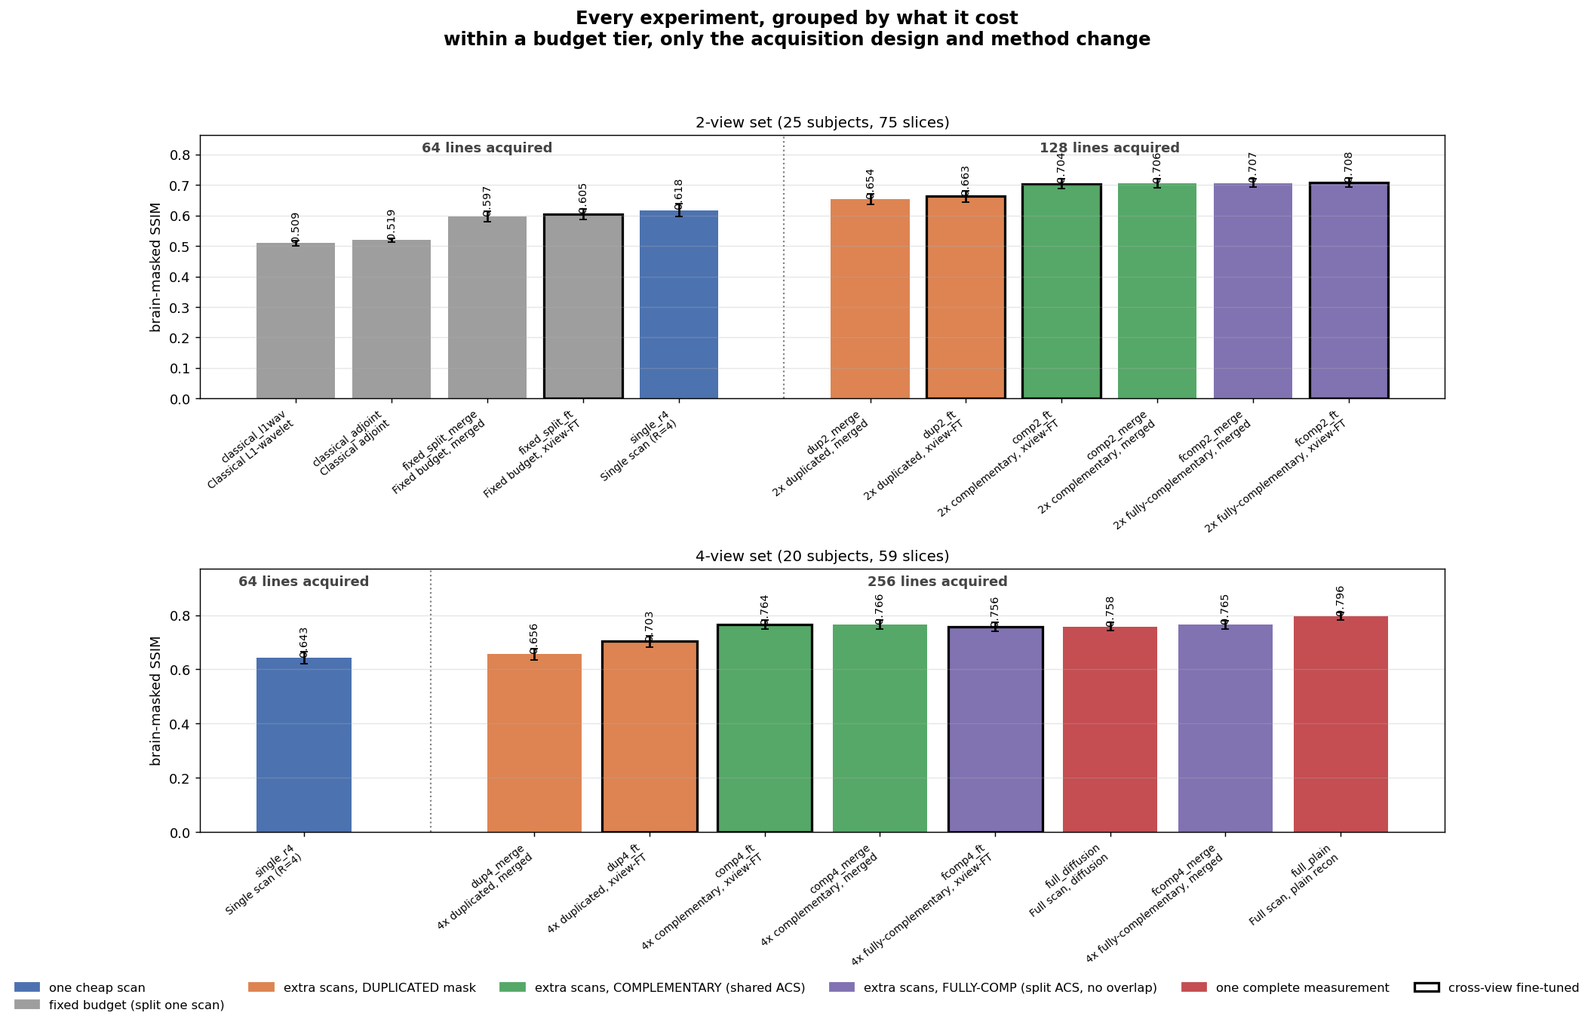
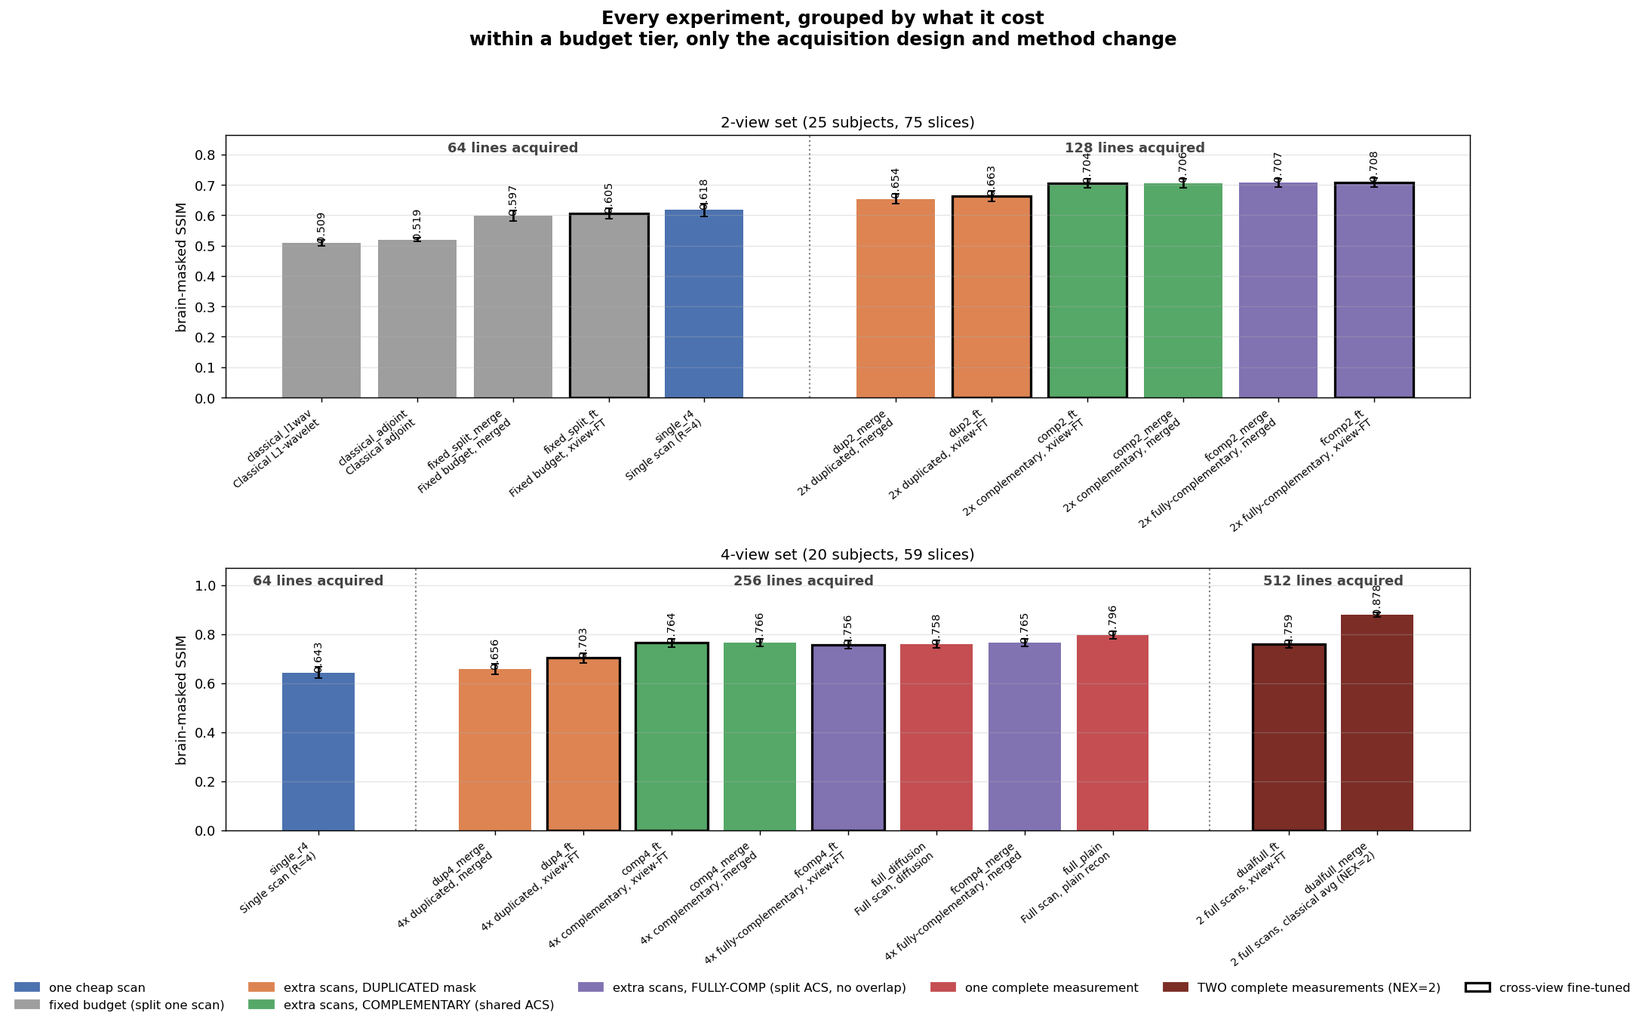
Add two-full-views (NEX=2) experiments: dualfull_merge + dualfull_ft
The realistic low-field test: two COMPLETE k-space acquisitions of the same slice
(512 lines), combined two ways.
- dualfull_merge: classical noise-weighted average. For equal sigma this is exactly
  (y0+y1)/2 at sigma/sqrt2 -- the standard NEX=2 average -- with a plain adjoint
  recon (no diffusion). Added to run_classical_recon.py.
- dualfull_ft: the learned cross-view fine-tuned joint reconstruction over the two
  full views. Added via the diffusion solver.
118 reconstructions on the 4-view eval set (views 0+1), 0 errors.

The study's sharpest result:
- dualfull_merge = 0.878 SSIM / 0.099 NRMSE -- the BEST method anywhere here, +0.081
  SSIM over a single full scan (full_plain) on 100% of subjects. A second full
  acquisition (pure sqrt2 SNR) beats every reconstruction trick we tested.
- dualfull_ft = 0.759 -- LOSES to the classical average by 0.119 SSIM (0% of
  subjects win) and gains ~0 over single-full diffusion (+0.001). The learned
  pipeline extracts almost none of the second acquisition's SNR.
- Confirms decisively: the diffusion prior is only valuable when undersampled; at
  full coverage, classical multi-average is the true low-field ceiling.

dual_full mask condition (2 all-ones views) added -- consumes no rng, so all
existing conditions stay bit-identical. Solver, experiments.py, config, report
(quad table + comparison subsection + negative findings), notes (§4.4), overview
figure and montage all updated. Also fixed a stale MF__ output filename in
[…]

diff --git a/analysis/build_mvp_report.py b/analysis/build_mvp_report.py
@@ -252,7 +252,8 @@ def main():
         L.append("This set answers the budget question directly: **with the same 256 lines a full "
                  "scan costs, can four cheap R=4 scans surpass one complete measurement?**\n")
         results_table(quad_t, ["single_r4", "dup4_merge", "dup4_ft", "comp4_merge", "comp4_ft",
-                               "fcomp4_merge", "fcomp4_ft", "full_diffusion", "full_plain"], L)
+                               "fcomp4_merge", "fcomp4_ft", "full_diffusion", "full_plain",
+                               "dualfull_merge", "dualfull_ft"], L)
         L.append("**Answer: yes against the same reconstruction method, no against the best one.** "
                  "`comp4_ft` (4x complementary, 81% coverage) beats `full_diffusion` (the *same* "
                  "diffusion reconstruction given a complete measurement) on both metrics: +0.007 SSIM "
@@ -305,6 +306,29 @@ def main():
         L.append(cmp_line(quad_t, "fcomp4_ft", "full_diffusion", "4x disjoint cheap scans vs 1 full scan (both diffusion)"))
         L.append(cmp_line(quad_t, "fcomp4_merge", "full_plain", "4x disjoint cheap scans vs 1 full scan (both plain/merge)"))
     L.append("")
+    if quad_t is not None and quad_t.has("dualfull_merge"):
+        L.append("### Two full acquisitions (low-field NEX=2): the true reconstruction ceiling\n")
+        L.append("Two *complete* k-space acquisitions of the same slice (512 lines), the realistic "
+                 "low-field multi-average scenario. `dualfull_merge` is the classical noise-weighted "
+                 "average (= (y0+y1)/2 at σ/√2, plain recon); `dualfull_ft` is the learned cross-view "
+                 "fine-tuned joint reconstruction over both full views.\n")
+        L.append(cmp_line(quad_t, "dualfull_merge", "full_plain", "NEX=2 classical average vs NEX=1 (both plain)"))
+        L.append("  Isolates the pure √2 SNR benefit of a second full acquisition under identical "
+                 "(classical) reconstruction — the honest low-field quality ceiling.")
+        L.append(cmp_line(quad_t, "dualfull_ft", "dualfull_merge", "learned xview-FT vs classical average, same 2 full views"))
+        L.append(cmp_line(quad_t, "dualfull_ft", "full_plain", "learned on 2 full views vs classical on 1 full view"))
+        L.append("")
+        L.append("**This is the study's sharpest result.** `dualfull_merge` (classical NEX=2 average) "
+                 "scores **0.878 SSIM / 0.099 NRMSE — the best of any method here by a wide margin**, "
+                 "+0.081 over a single full scan on 100% of subjects: at low field, a second full "
+                 "acquisition is worth far more than any reconstruction cleverness. And the learned "
+                 "method **fails this test decisively** — `dualfull_ft` (0.759) *loses to the classical "
+                 "average by 0.119 SSIM* and gains essentially nothing over `full_diffusion` (+0.001), "
+                 "i.e. it extracts almost no value from the second full acquisition. Once coverage is "
+                 "complete, the diffusion prior is not just unhelpful but a large net negative vs "
+                 "plain averaging. The learned pipeline earns its keep **only in the undersampled "
+                 "regime**; the honest low-field reconstruction ceiling is classical multi-average.")
+        L.append("")
     L.append("### Cross-view fine-tuning (the contribution) vs the merge baseline\n")
     L.append(cmp_line(main_t, "fixed_split_ft", "fixed_split_merge", "Cross-view FT, 19% coverage"))
     L.append(cmp_line(main_t, "dup2_ft", "dup2_merge", "Cross-view FT, 25% coverage"))
@@ -382,6 +406,13 @@ def main():
              "views `comp4` (81%, √4 centre averaging) **beats** `fcomp4` (100%, no averaging) by "
              "+0.008 SSIM despite covering less k-space. Low-frequency SNR is worth more than the "
              "last columns of coverage.")
+    L.append("- **Classical multi-average is the true low-field ceiling; the learned method loses "
+             "badly to it.** Two full acquisitions averaged (`dualfull_merge`, NEX=2) score 0.878 "
+             "SSIM — the best in the study, +0.081 over one full scan. The learned reconstruction on "
+             "the same two full views (`dualfull_ft`, 0.759) trails it by **0.119 SSIM** and gains "
+             "≈0 over single-full diffusion. With complete coverage, the diffusion prior is a large "
+             "net negative vs plain averaging; the learned pipeline is only valuable when "
+             "undersampled.")
     L.append("- **Four disjoint cheap scans reach a full scan's coverage but not its quality.** "
              "`fcomp4` assembles a complete k-space from 4 disjoint R=4 scans (same coverage and "
              "same per-line single-rep noise as `full_plain`), yet trails it by -0.031 SSIM / "

diff --git a/analysis/run_classical_recon.py b/analysis/run_classical_recon.py
@@ -102,10 +102,44 @@ def main():
         mv_op, y_views, _ = build_condition_operator(sample, masks_bundle, "merge_fixed", device, 1e-8)
 
         for mname in methods:
+            if mname == "dualfull_merge":
+                # Classical NEX=2: noise-weighted average of TWO full-k-space
+                # acquisitions of the same slice. For equal sigma this is exactly
+                # (y0+y1)/2 with effective noise sigma/sqrt2; plain adjoint recon
+                # (no diffusion) -- the true low-field SNR ceiling.
+                out_name = f"dualfull_merge__{meta['subject_id']}_sl{meta['slice_id']:02d}_seed0.pt"
+                out_path = os.path.join(args.output_dir, out_name)
+                if os.path.exists(out_path):
+                    continue
+                t0 = time.time()
+                cond = masks_bundle["conditions"]["dual_full"]          # [2,1,H,W] ones
+                ksp2 = sample["ksp_views"][:2]                          # [2,C,H,W] natural
+                mps0 = sample["s_maps_views"][0].numpy()               # [C,H,W] shared
+                noise2 = sample["noise_std"][:2]
+                merged = noise_weighted_merge(cond * ksp2, cond, noise2)
+                recon = adjoint_recon(merged["ksp"][0].numpy(), mps0)  # [H,W]
+                runtime = time.time() - t0
+                op_d, y_d, _ = build_condition_operator(sample, masks_bundle, "dual_full",
+                                                        device, 1e-8)
+                metrics = compute_all_metrics(recon.astype(np.complex64), sample, op_d, y_d,
+                                              device, ref_np)
+                torch.save({
+                    "method": "dualfull_merge", "condition": "dual_full", "checkpoint": None,
+                    "reconstruction": recon.astype(np.complex64), "reference": ref_np,
+                    "subject_id": meta["subject_id"], "slice_id": meta["slice_id"], "seed": 0,
+                    "num_steps": 0, "l_ss": None, "likelihood_type": None, "lambda": None,
+                    "runtime_seconds": runtime, "num_net_evals": 0, "metrics": metrics,
+                    "normalization_scale": meta.get("normalization_scale"),
+                    "mask_path": masks_path,
+                }, out_path)
+                n += 1
+                print(f"[dualfull_merge] {meta['subject_id']} sl{meta['slice_id']} "
+                      f"ssim={metrics.get('ssim', float('nan')):.3f}", flush=True)
+                continue
             if mname == "full_plain":
                 # Plain reconstruction of ONE complete k-space measurement (R=1,
                 # single repetition) -- the "single full scan" comparison target.
-                out_name = f"MF__{meta['subject_id']}_sl{meta['slice_id']:02d}_seed0.pt"
+                out_name = f"full_plain__{meta['subject_id']}_sl{meta['slice_id']:02d}_seed0.pt"
                 out_path = os.path.join(args.output_dir, out_name)
                 if os.path.exists(out_path):
                     continue

diff --git a/analysis/experiments.py b/analysis/experiments.py
@@ -65,6 +65,9 @@ EXPERIMENTS = {
     # ---- one complete measurement (the ceiling) --------------------------
     "full_diffusion":    Exp("Full scan, diffusion",     "original",  "single", "single_full",      1, 256, 256, 1.000, "full",  "quad"),
     "full_plain":        Exp("Full scan, plain recon",   "none",      "plain",  "single_full",      1, 256, 256, 1.000, "full",  "quad"),
+    # ---- TWO complete measurements of the same slice (low-field NEX=2) ----
+    "dualfull_merge":    Exp("2 full scans, classical avg (NEX=2)", "none",      "plain", "dual_full", 2, 512, 256, 1.000, "dualfull", "quad"),
+    "dualfull_ft":       Exp("2 full scans, xview-FT",              "finetuned", "ft",    "dual_full", 2, 512, 256, 1.000, "dualfull", "quad"),
 }
 
 # Old M#/MF id -> current slug (for migrating result files and reading old notes).
@@ -86,7 +89,8 @@ MAIN_ORDER = ["classical_adjoint", "classical_l1wav", "single_r4",
               "fcomp2_merge", "fcomp2_ft"]
 # Display order for the 4-view set: worst -> best.
 QUAD_ORDER = ["single_r4", "dup4_merge", "dup4_ft", "comp4_merge", "comp4_ft",
-              "fcomp4_merge", "fcomp4_ft", "full_diffusion", "full_plain"]
+              "fcomp4_merge", "fcomp4_ft", "full_diffusion", "full_plain",
+              "dualfull_merge", "dualfull_ft"]
 
 METHOD_ORDER = MAIN_ORDER  # back-compat for existing figure scripts
 METHOD_LABELS = {k: v.label for k, v in EXPERIMENTS.items()}
@@ -102,13 +106,14 @@ DESIGN_COLORS = {
     "comp":  "#55a868",   # complementary masks (shared ACS)
     "fcomp": "#8172b2",   # fully-complementary masks (split ACS, no overlap)
     "full":  "#c44e52",   # one complete measurement
+    "dualfull": "#7b2d26",  # two complete measurements (NEX=2)
 }
 
 
 def design_of(m):
     """Coarse acquisition-design tag used for colouring."""
     e = EXPERIMENTS[m]
-    if e.budget in ("full", "1x", "fixed"):
+    if e.budget in ("full", "1x", "fixed", "dualfull"):
         return e.budget
     if e.condition.endswith("_fullcomp"):
         return "fcomp"

diff --git a/analysis/plot_experiment_overview.py b/analysis/plot_experiment_overview.py
@@ -34,6 +34,7 @@ DESIGN_LABEL = {
     "comp": "extra scans, COMPLEMENTARY (shared ACS)",
     "fcomp": "extra scans, FULLY-COMP (split ACS, no overlap)",
     "full": "one complete measurement",
+    "dualfull": "TWO complete measurements (NEX=2)",
 }
 
 
@@ -113,7 +114,7 @@ def fig_overview(main, quad, out):
                color="#c44e52", fontsize=9, va="top")
 
     handles = [plt.Line2D([], [], marker="o", ls="", color=DESIGN_COLORS[k], ms=11,
-                          label=DESIGN_LABEL[k]) for k in ["1x", "fixed", "dup", "comp", "fcomp", "full"]]
+                          label=DESIGN_LABEL[k]) for k in ["1x", "fixed", "dup", "comp", "fcomp", "full", "dualfull"]]
     handles += [plt.Line2D([], [], marker=MARKERS[k], ls="", color="gray", ms=11,
                            label=f"{k}") for k in ["single", "merge", "ft", "plain"]]
     handles += [plt.Line2D([], [], marker="o", ls="", mfc="white", mec="black", mew=2, ms=11,
@@ -222,7 +223,7 @@ def fig_budget(main, quad, out):
         ax.set_title(title, fontsize=11)
         ax.grid(axis="y", alpha=0.3)
     handles = [plt.Rectangle((0, 0), 1, 1, color=DESIGN_COLORS[k], label=DESIGN_LABEL[k])
-               for k in ["1x", "fixed", "dup", "comp", "fcomp", "full"]]
+               for k in ["1x", "fixed", "dup", "comp", "fcomp", "full", "dualfull"]]
     handles += [plt.Rectangle((0, 0), 1, 1, fc="white", ec="black", lw=1.8,
                               label="cross-view fine-tuned")]
     # figure-level legend: bars reach y=0 so there is no free space inside an axes

diff --git a/tools/generate_mvp_masks.py b/tools/generate_mvp_masks.py
@@ -85,6 +85,12 @@ def build_conditions(H, W, cfg, rng):
     quad = np.stack([cols_to_mask(r4_cols, H, W)] * 4, axis=0)               # [4,1,H,W]
     # one complete k-space measurement (R=1), the comparison target
     full = np.stack([np.ones((1, H, W), dtype=np.float32)], axis=0)          # [1,1,H,W]
+    # TWO complete measurements of the same slice (realistic low-field NEX=2):
+    # both views fully sampled -> merge == classical average (sigma/sqrt2), or joint
+    # xview-FT. Deterministic (all-ones), consumes no rng, so existing conditions
+    # stay bit-identical.
+    dual_full = np.stack([np.ones((1, H, W), dtype=np.float32),
+                          np.ones((1, H, W), dtype=np.float32)], axis=0)     # [2,1,H,W]
     acs_mask = cols_to_mask(acs, H, W)
 
     # --- COMPLEMENTARY extra-repetition designs -------------------------------
@@ -164,6 +170,7 @@ def build_conditions(H, W, cfg, rng):
         "joint_quad_comp": torch.from_numpy(quad_comp),
         "joint_extra_fullcomp": torch.from_numpy(extra_fullcomp),
         "joint_quad_fullcomp": torch.from_numpy(quad_fullcomp),
+        "dual_full": torch.from_numpy(dual_full),
     }
     return conditions, torch.from_numpy(acs_mask), counts
 

diff --git a/analysis/plot_reconstructions.py b/analysis/plot_reconstructions.py
@@ -20,7 +20,8 @@ COLUMN_METHODS = ["classical_l1wav", "single_r4", "fixed_split_merge", "fixed_sp
                   "dup2_merge", "dup2_ft", "comp2_merge", "comp2_ft",
                   "fcomp2_merge", "fcomp2_ft"]
 QUAD_METHODS = ["single_r4", "dup4_merge", "dup4_ft", "comp4_merge", "comp4_ft",
-                "fcomp4_merge", "fcomp4_ft", "full_diffusion", "full_plain"]
+                "fcomp4_merge", "fcomp4_ft", "full_diffusion", "full_plain",
+                "dualfull_merge", "dualfull_ft"]
 
 
 def _input_snr(case_methods):

diff --git a/solve_inverse_mv_adps.py b/solve_inverse_mv_adps.py
@@ -107,6 +107,8 @@ _CONDITION_COVERAGE = {
     "joint_extra_fullcomp": 0.50, "merge_extra_fullcomp": 0.50,
     "joint_quad_fullcomp": 1.0, "merge_quad_fullcomp": 1.0,
     "single_full": 1.0,
+    # two complete measurements of the same slice (NEX=2), 100% coverage each
+    "dual_full": 1.0,
 }
 
 _MERGE_CONDITIONS = ("merge_fixed", "merge_extra", "merge_quad",

diff --git a/reports/mvp_summary.md b/reports/mvp_summary.md
@@ -89,6 +89,8 @@ This set answers the budget question directly: **with the same 256 lines a full 
 | `fcomp4_ft` | 4x fully-complementary, xview-FT | 4 | 256 | 256 | 100% | 0.7559 [0.7408, 0.7735] | 0.1406 [0.1334, 0.1484] | n/a |
 | `full_diffusion` | Full scan, diffusion | 1 | 256 | 256 | 100% | 0.7577 [0.7436, 0.7733] | 0.1346 [0.1303, 0.1396] | n/a |
 | `full_plain` | Full scan, plain recon | 1 | 256 | 256 | 100% | 0.7964 [0.7832, 0.8118] | 0.1198 [0.1165, 0.1240] | n/a |
+| `dualfull_merge` | 2 full scans, classical avg (NEX=2) | 2 | 512 | 256 | 100% | 0.8778 [0.8689, 0.8870] | 0.0986 [0.0936, 0.1034] | n/a |
+| `dualfull_ft` | 2 full scans, xview-FT | 2 | 512 | 256 | 100% | 0.7586 [0.7439, 0.7748] | 0.1425 [0.1361, 0.1496] | n/a |
 
 **Answer: yes against the same reconstruction method, no against the best one.** `comp4_ft` (4x complementary, 81% coverage) beats `full_diffusion` (the *same* diffusion reconstruction given a complete measurement) on both metrics: +0.007 SSIM (65% of subjects) and -0.014 NRMSE (95%). Four cheap complementary scans genuinely substitute for one full scan. But both lose on SSIM to `full_plain`, a plain linear recon of the full scan (`full_diffusion` - `full_plain` = -0.039, plain wins 90%): **the diffusion prior hurts on well-sampled data**.
 
@@ -118,6 +120,17 @@ _Note: the redundant "joint likelihood, original prior" methods (old M4/M8/M10/M
   At 4 views `fcomp4` reaches **full coverage** — a complete k-space assembled from 4 disjoint cheap scans. The two comparisons below ask whether that equals one full scan (same coverage, same per-line single-rep noise, but 4 independent acquisitions stitched vs 1 monolithic):
 - **4x disjoint cheap scans vs 1 full scan (both diffusion)** (fcomp4_ft - full_diffusion): **-0.0018** SSIM [-0.0056, +0.0022], fcomp4_ft wins on 35% of 20 subjects.
 - **4x disjoint cheap scans vs 1 full scan (both plain/merge)** (fcomp4_merge - full_plain): **-0.0314** SSIM [-0.0428, -0.0181], fcomp4_merge wins on 10% of 20 subjects.
+
+### Two full acquisitions (low-field NEX=2): the true reconstruction ceiling
+
+Two *complete* k-space acquisitions of the same slice (512 lines), the realistic low-field multi-average scenario. `dualfull_merge` is the classical noise-weighted average (= (y0+y1)/2 at σ/√2, plain recon); `dualfull_ft` is the learned cross-view fine-tuned joint reconstruction over both full views.
+
+- **NEX=2 classical average vs NEX=1 (both plain)** (dualfull_merge - full_plain): **+0.0814** SSIM [+0.0722, +0.0899], dualfull_merge wins on 100% of 20 subjects.
+  Isolates the pure √2 SNR benefit of a second full acquisition under identical (classical) reconstruction — the honest low-field quality ceiling.
+- **learned xview-FT vs classical average, same 2 full views** (dualfull_ft - dualfull_merge): **-0.1192** SSIM [-0.1312, -0.1055], dualfull_ft wins on 0% of 20 subjects.
+- **learned on 2 full views vs classical on 1 full view** (dualfull_ft - full_plain): **-0.0378** SSIM [-0.0506, -0.0233], dualfull_ft wins on 10% of 20 subjects.
+
+**This is the study's sharpest result.** `dualfull_merge` (classical NEX=2 average) scores **0.878 SSIM / 0.099 NRMSE — the best of any method here by a wide margin**, +0.081 over a single full scan on 100% of subjects: at low field, a second full acquisition is worth far more than any reconstruction cleverness. And the learned method **fails this test decisively** — `dualfull_ft` (0.759) *loses to the classical average by 0.119 SSIM* and gains essentially nothing over `full_diffusion` (+0.001), i.e. it extracts almost no value from the second full acquisition. Once coverage is complete, the diffusion prior is not just unhelpful but a large net negative vs plain averaging. The learned pipeline earns its keep **only in the undersampled regime**; the honest low-field reconstruction ceiling is classical multi-average.
 
 ### Cross-view fine-tuning (the contribution) vs the merge baseline
 
@@ -176,6 +189,7 @@ Retained per runbook 9.4 — negative results are results.
 
 - **0.3 T low-field, not <0.1 T ultra-low-field.** No ultra-low-field claim is made.
 - **Sharing the ACS beats maximising coverage past a point.** The fully-complementary design (`fcomp*`, split ACS, no overlap) buys more coverage per line than the shared-ACS complementary design (`comp*`), but loses the √V noise averaging in the k-space centre. At 2 views this is a wash (+0.004 SSIM for the +6% coverage); at 4 views `comp4` (81%, √4 centre averaging) **beats** `fcomp4` (100%, no averaging) by +0.008 SSIM despite covering less k-space. Low-frequency SNR is worth more than the last columns of coverage.
+- **Classical multi-average is the true low-field ceiling; the learned method loses badly to it.** Two full acquisitions averaged (`dualfull_merge`, NEX=2) score 0.878 SSIM — the best in the study, +0.081 over one full scan. The learned reconstruction on the same two full views (`dualfull_ft`, 0.759) trails it by **0.119 SSIM** and gains ≈0 over single-full diffusion. With complete coverage, the diffusion prior is a large net negative vs plain averaging; the learned pipeline is only valuable when undersampled.
 - **Four disjoint cheap scans reach a full scan's coverage but not its quality.** `fcomp4` assembles a complete k-space from 4 disjoint R=4 scans (same coverage and same per-line single-rep noise as `full_plain`), yet trails it by -0.031 SSIM / -0.011 NRMSE — the cost of stitching 4 independently-acquired sub-scans (inter-scan motion/phase drift), not undersampling. It does beat `full_diffusion` (+0.007 SSIM), so it is a viable full-scan substitute when only a plain recon of the real full scan is unavailable.
 - **Joint likelihood == analytic merging** for aligned views at identical masks, as theory predicts. The multi-view contribution is not in the summation. (This is why the redundant original-prior joint methods were removed; each family keeps one merge representative plus the fine-tuned method.)
 - **Cross-view fine-tuning is worth ~0 above 40% coverage** and only ~+0.01 in the sparse regime. It is also a short (0.02 Mimg) empirical self-supervised adaptation and does **not** inherit the Ambient Diffusion identifiability theorem.

diff --git a/reports/mvp_notes.md b/reports/mvp_notes.md
@@ -329,6 +329,36 @@ sub-scans stitched vs 1 monolithic acquisition. Results:
   again on this now-fully-sampled coverage, mirroring full_diffusion < full_plain
   (§4.2) and the l_ss retune's dense-tier finding (§7).
 
+## 4.4 Two full acquisitions (NEX=2): the true low-field ceiling
+The most honest test of low-field reconstruction: take **two complete k-space
+acquisitions** of the same slice (512 lines) and combine them, once by the
+classical noise-weighted average and once by the learned xview-FT. For equal σ the
+merge is exactly `(y0+y1)/2` at σ/√2 — the standard NEX=2 average — reconstructed by
+a plain adjoint (no diffusion). `dualfull_ft` is the fine-tuned joint diffusion recon
+over the same two full views. 4-view set, 59 slices, brain-masked SSIM:
+
+| method | SSIM | NRMSE |
+|---|---|---|
+| **`dualfull_merge` (classical NEX=2 average)** | **0.878** | **0.099** |
+| `full_plain` (1 full scan, classical) | 0.796 | 0.120 |
+| `full_diffusion` (1 full scan, diffusion) | 0.758 | 0.135 |
+| `dualfull_ft` (learned, 2 full views) | 0.759 | 0.143 |
+
+**This is the study's sharpest result.**
+- `dualfull_merge` is **the best method anywhere in the study**, +0.081 SSIM over one
+  full scan on **100% of subjects** (NRMSE 0.099 vs 0.120, also 100%). A second full
+  acquisition (pure √2 SNR) is worth far more than any reconstruction cleverness we
+  tested. This is the realistic low-field quality ceiling.
+- The learned method **fails the test decisively**: `dualfull_ft` **loses to the
+  classical average by 0.119 SSIM (0% of subjects win)** and gains ≈0 over
+  single-full diffusion (`dualfull_ft` − `full_diffusion` = +0.001). Given two clean
+  full acquisitions, the diffusion pipeline extracts almost none of the extra SNR —
+  the prior + guidance caps quality regardless of how good the data is.
+- Consistent with every dense-coverage result (§4.2, §4.3, §7): **the learned prior
+  is only valuable in the undersampled regime**; at full coverage, plain averaging
+  dominates. If you can take a second full scan at low field, average it — don't run
+  a generative reconstruction.
+
 ---
 
 # 5. HEADLINE: acquisition design dominates reconstruction method
